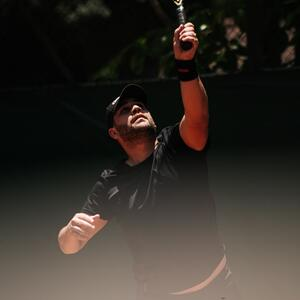
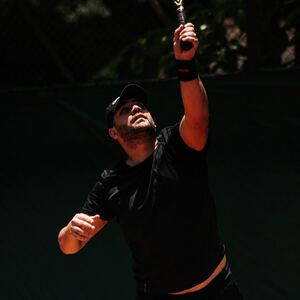
/app Onboarding-Feinschliff: (1) Play-Fork-Kachel nutzt neues ChatGPT-Bild (public/onboarding/play.jpg). (2) Welcome-Screen mit Titelvideo /hero.mp4 als Hintergrund + dunklem Overlay, weisser Text. (3) Tour: Nachname (last_name) Pflicht im Identity-Screen (Vorname+Nachname; display_name='Vorname Nac

diff --git a/src/app/app/components/Onboarding/OnboardingFlow.tsx b/src/app/app/components/Onboarding/OnboardingFlow.tsx
@@ -133,6 +133,7 @@ export default function OnboardingFlow() {
   // Tour ist Early-Access-gesperrt: nur mit Freischalt-Code wählbar.
   const [tourOk, setTourOk] = useState(() => (typeof window !== "undefined" ? tourUnlocked() : false));
   const [tourGate, setTourGate] = useState(false);
+  const [openInfo, setOpenInfo] = useState<string | null>(null); // Info-Popover im Passport-Screen
 
   // Fortschritt bei jeder Änderung sichern (ohne File-Objekte).
   useEffect(() => {
@@ -319,7 +320,7 @@ export default function OnboardingFlow() {
 
       const { error: insertError } = await supabase.from("profiles").insert({
         id: user.id,
-        display_name: state.first_name,
+        display_name: state.onb_mode === "tour" && state.last_name.trim() ? `${state.first_name.trim()} ${state.last_name.trim()}` : state.first_name,
         first_name: state.first_name,
         age: state.age!,
         gender: state.gender!,
@@ -468,21 +469,26 @@ export default function OnboardingFlow() {
       <div className="flex-1 overflow-y-auto px-5 py-8">
         {/* Step 1 — Welcome */}
         {cur === "welcome" && (
-          <div className="flex h-full flex-col items-center justify-center text-center">
-            <span className="text-4xl font-extrabold tracking-[0.2em] text-matchup">
-              MATCHUP
-            </span>
-            <div className="mt-4 flex justify-center gap-4 text-neutral-500">
-              <TennisIcon size={30} />
-              <PadelIcon size={30} />
-              <PickleballIcon size={30} />
+          <div className="relative flex h-full min-h-[68vh] flex-col items-center justify-center overflow-hidden rounded-[28px] text-center">
+            {/* Titelvideo im Hintergrund */}
+            <video className="pointer-events-none absolute inset-0 h-full w-full object-cover" autoPlay muted loop playsInline poster="/hero-poster.jpg" aria-hidden="true">
+              <source src="/hero.mp4" type="video/mp4" />
+            </video>
+            <div className="absolute inset-0 bg-black/55" />
+            <div className="relative z-10 px-6 text-white">
+              <span className="text-4xl font-extrabold tracking-[0.2em] text-white">MATCHUP</span>
+              <div className="mt-4 flex justify-center gap-4 text-white/85">
+                <TennisIcon size={30} />
+                <PadelIcon size={30} />
+                <PickleballIcon size={30} />
+              </div>
+              <h1 className="mt-8 text-3xl font-bold text-white">
+                {t("onboarding.welcomeTitle")}
+              </h1>
+              <p className="mx-auto mt-4 max-w-xs text-white/80">
+                {t("onboarding.welcomeSubtitle")}
+              </p>
             </div>
-            <h1 className="mt-8 text-3xl font-bold">
-              {t("onboarding.welcomeTitle")}
-            </h1>
-            <p className="mt-4 max-w-xs text-neutral-500">
-              {t("onboarding.welcomeSubtitle")}
-            </p>
           </div>
         )}
 
@@ -714,7 +720,7 @@ export default function OnboardingFlow() {
         {/* Step 6 — Name + Alter + Geschlecht */}
         {cur === "identity" && (
           <Step title={t("onboarding.aboutYouTitle")} subtitle={t("onboarding.aboutYouSubtitle")}>
-            <label className="mb-1.5 block text-[11px] font-bold uppercase tracking-wide text-neutral-400">{t("onboarding.fieldName")}</label>
+            <label className="mb-1.5 block text-[11px] font-bold uppercase tracking-wide text-neutral-400">{state.onb_mode === "tour" ? t("onboarding.fieldFirstName") : t("onboarding.fieldName")}</label>
             <input
               value={state.first_name}
               onChange={(e) => dispatch({ type: "SET_NAME", payload: e.target.value })}
@@ -723,6 +729,17 @@ export default function OnboardingFlow() {
             />
             {state.first_name.length > 0 && state.first_name.trim().length < 2 && (
               <p className="mt-1 text-sm text-amber-600">{t("onboarding.nameTooShort")}</p>
+            )}
+            {state.onb_mode === "tour" && (
+              <>
+                <label className="mb-1.5 mt-4 block text-[11px] font-bold uppercase tracking-wide text-neutral-400">{t("onboarding.fieldLastName")}</label>
+                <input
+                  value={state.last_name}
+                  onChange={(e) => dispatch({ type: "SET_LASTNAME", payload: e.target.value })}
+                  placeholder={t("onboarding.lastNamePlaceholder")}
+                  className="w-full rounded-xl bg-black/[0.04] px-4 py-3.5 text-sm outline-none focus:ring-1 focus:ring-matchup"
+                />
+              </>
             )}
 
             <div className="mt-6">
@@ -847,7 +864,7 @@ export default function OnboardingFlow() {
         {/* Tour — Pässe + Steuerresidenz + ESTA */}
         {cur === "passport" && (
           <Step title={t("onboarding.passportTitle")} subtitle={t("onboarding.passportSubtitle")}>
-            <p className="text-sm font-semibold">{t("onboarding.passportPrimary")}</p>
+            <InfoLabel text={t("onboarding.passportPrimary")} info={t("onboarding.passportPrimaryInfo")} id="pp" openInfo={openInfo} setOpenInfo={setOpenInfo} />
             <input
               value={state.passports[0] ?? ""}
               onChange={(e) => dispatch({ type: "SET_PASSPORTS", payload: [e.target.value, state.passports[1] ?? ""] })}
@@ -861,14 +878,14 @@ export default function OnboardingFlow() {
               placeholder={t("onboarding.passportAdd")}
               className="w-full rounded-xl bg-black/[0.04] px-4 py-3 text-sm outline-none focus:ring-1 focus:ring-matchup"
             />
-            <p className="pt-2 text-sm font-semibold">{t("onboarding.taxResidence")}</p>
+            <InfoLabel text={t("onboarding.taxResidence")} info={t("onboarding.taxResidenceInfo")} id="tax" openInfo={openInfo} setOpenInfo={setOpenInfo} className="pt-2" />
             <input
               value={state.tax_residence}
               onChange={(e) => dispatch({ type: "SET_TAX_RESIDENCE", payload: e.target.value })}
               placeholder={t("onboarding.taxPlaceholder")}
               className="w-full rounded-xl bg-black/[0.04] px-4 py-3 text-sm outline-none focus:ring-1 focus:ring-matchup"
             />
-            <p className="pt-2 text-sm font-semibold">{t("onboarding.usAuth")}</p>
+            <InfoLabel text={t("onboarding.usAuth")} info={t("onboarding.usAuthInfo")} id="us" openInfo={openInfo} setOpenInfo={setOpenInfo} className="pt-2" />
             <div className="flex flex-wrap gap-2">
               {["ESTA", "B-1", "P-1", "None"].map((o) => (
                 <Chip key={o} selected={state.esta_status === o} onClick={() => dispatch({ type: "SET_ESTA", payload: { status: o } })}>
@@ -1277,6 +1294,20 @@ function ForkCheck() {
     <span className="flex h-6 w-6 shrink-0 items-center justify-center rounded-full bg-matchup text-white">
       <svg viewBox="0 0 24 24" className="h-3.5 w-3.5" fill="none" stroke="currentColor" strokeWidth="3" strokeLinecap="round" strokeLinejoin="round"><path d="M20 6 9 17l-5-5" /></svg>
     </span>
+  );
+}
+
+/** Feld-Label mit (i)-Info-Button, das eine kurze Erklärung ein-/ausklappt. */
+function InfoLabel({ text, info, id, openInfo, setOpenInfo, className = "" }: { text: string; info: string; id: string; openInfo: string | null; setOpenInfo: (v: string | null) => void; className?: string }) {
+  const open = openInfo === id;
+  return (
+    <div className={className}>
+      <div className="flex items-center gap-1.5">
+        <p className="text-sm font-semibold">{text}</p>
+        <button type="button" onClick={() => setOpenInfo(open ? null : id)} aria-label="Info" className="flex h-[18px] w-[18px] items-center justify-center rounded-full bg-black/[0.1] text-[11px] font-bold italic text-neutral-500">i</button>
+      </div>
+      {open && <p className="mt-1.5 rounded-lg bg-matchup/[0.06] px-3 py-2 text-[11.5px] leading-relaxed text-neutral-600">{info}</p>}
+    </div>
   );
 }
 

diff --git a/src/lib/i18n/messages/onboarding.ts b/src/lib/i18n/messages/onboarding.ts
@@ -82,7 +82,13 @@ export const onboarding = {
     tourRankingHint: "Wir synchronisieren dein Ranking wöchentlich aus Live-Daten. Manuell korrigierbar.",
     passportTitle: "Pässe & Residenz",
     passportSubtitle: "Nötig für Visa-Tracking, Schengen 90/180 und Steuerresidenz.",
+    fieldFirstName: "Vorname",
+    fieldLastName: "Nachname",
+    lastNamePlaceholder: "Dein Nachname",
     passportPrimary: "Erster Pass",
+    passportPrimaryInfo: "Deine Hauptnationalität bestimmt, wo du visumfrei einreisen darfst. Grundlage für Schengen-90/180- und Visum-Tracking.",
+    taxResidenceInfo: "Dein steuerlicher Wohnsitz — wichtig, weil Preisgelder oft im Turnierland besteuert werden. Hilft beim späteren Steuer-Export.",
+    usAuthInfo: "Dein aktueller US-Einreisestatus (ESTA/Visum). Wir erinnern dich rechtzeitig vor Ablauf. „Keiner“, wenn nichts vorhanden.",
     passportPlaceholder: "z. B. Schweiz",
     passportSecond: "Zweiter Pass (optional)",
     passportAdd: "Nationalität hinzufügen",
@@ -251,7 +257,13 @@ export const onboarding = {
     tourRankingHint: "We sync your ranking weekly from live data. You can always correct it manually.",
     passportTitle: "Passports & residence",
     passportSubtitle: "Needed for visa tracking, Schengen 90/180 and tax residency.",
+    fieldFirstName: "First name",
+    fieldLastName: "Last name",
+    lastNamePlaceholder: "Your last name",
     passportPrimary: "Primary passport",
+    passportPrimaryInfo: "Your main nationality determines where you can enter visa-free. Basis for Schengen 90/180 and visa tracking.",
+    taxResidenceInfo: "Your tax residence — matters because prize money is often taxed in the tournament country. Helps with the later tax export.",
+    usAuthInfo: "Your current US entry status (ESTA/visa). We'll remind you before it expires. Choose “None” if you have nothing yet.",
     passportPlaceholder: "e.g. Switzerland",
     passportSecond: "Second passport (optional)",
     passportAdd: "Add nationality",

diff --git a/src/app/app/components/Onboarding/onboardingReducer.ts b/src/app/app/components/Onboarding/onboardingReducer.ts
@@ -11,6 +11,7 @@ export const initialOnboardingState: OnboardingState = {
   club_id: null,
   club_name: null,
   first_name: "",
+  last_name: "",
   age: null,
   birthdate: "",
   gender: null,
@@ -90,6 +91,7 @@ export type Action =
     }
   | { type: "SET_CLUB"; payload: { id: string | null; name: string | null } }
   | { type: "SET_NAME"; payload: string }
+  | { type: "SET_LASTNAME"; payload: string }
   | { type: "SET_AGE"; payload: number }
   | { type: "SET_BIRTHDATE"; payload: string }
   | { type: "SET_RANKINGS"; payload: Partial<Pick<OnboardingState, "atp" | "wta" | "itf" | "utr">> }
@@ -143,6 +145,8 @@ export function onboardingReducer(
       };
     case "SET_NAME":
       return { ...state, first_name: action.payload };
+    case "SET_LASTNAME":
+      return { ...state, last_name: action.payload };
     case "SET_AGE":
       return { ...state, age: action.payload };
     case "SET_BIRTHDATE":
@@ -229,7 +233,9 @@ export function isStepValid(state: OnboardingState): boolean {
       return (
         state.first_name.trim().length >= 2 &&
         state.age !== null && state.age >= 18 && state.age <= 100 &&
-        state.gender !== null
+        state.gender !== null &&
+        // Tour: Nachname Pflicht.
+        (state.onb_mode !== "tour" || state.last_name.trim().length >= 2)
       );
     case "fork":
       return state.onb_mode !== null;

diff --git a/src/lib/types.ts b/src/lib/types.ts
@@ -403,6 +403,7 @@ export interface OnboardingState {
   club_id: string | null;
   club_name: string | null;
   first_name: string;
+  last_name: string; // Pflicht im Tour-Modus (Nachname)
   age: number | null;
   birthdate: string; // ISO yyyy-mm-dd (für /map-Übernahme)
   gender: "male" | "female" | null;
